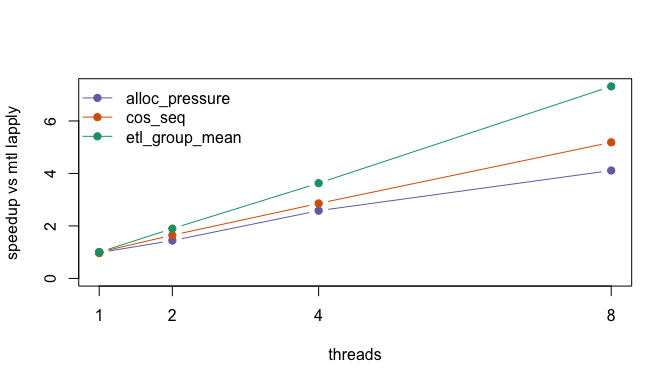
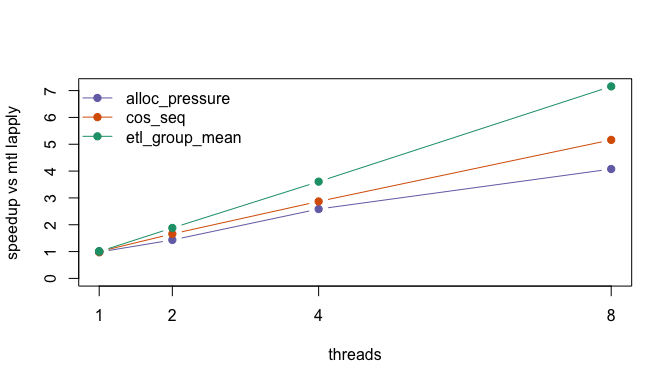
mtl: reduce serial overhead via hidden threading-active mirror

diff --git a/src/main/memory.c b/src/main/memory.c
@@ -160,10 +160,19 @@ attribute_hidden int R_gc_running(void) { return R_in_gc; }
 #ifdef HAVE_PTHREAD
 # include <stdatomic.h>
 
-/* Global: enabled only while mtlapply() workers are evaluating. */
-/* Must have default visibility: internal bundled shared objects include
- * Defn.h and reference this flag via the R_Interpreter macro. */
+/* Global: enabled only while mtlapply() workers are evaluating.
+ *
+ * Keep a visible symbol for internal shared objects compiled with
+ * -undefined dynamic_lookup, and a hidden mirror for the main executable
+ * to avoid semantic-interposition overhead on the hot serial path. */
 attribute_visible int R_mtl_threading_active = 0;
+attribute_hidden int R_mtl_threading_active_hidden = 0;
+
+attribute_hidden void R_mtl_set_threading_active(int active)
+{
+    R_mtl_threading_active = active;
+    R_mtl_threading_active_hidden = active;
+}
 
 static pthread_mutex_t R_heap_excl_mutex = PTHREAD_MUTEX_INITIALIZER;
 static pthread_cond_t  R_heap_excl_cond  = PTHREAD_COND_INITIALIZER;
@@ -177,7 +186,7 @@ static R_THREAD_LOCAL int R_heap_inflight_suspended = 0;
 
 static R_INLINE void heap_alloc_suspend(void)
 {
-    if (__builtin_expect(!R_mtl_threading_active, 1))
+    if (__builtin_expect(!R_MTL_THREADING_ACTIVE, 1))
 	return;
     /* Worker heaps are private: they do not participate in main-heap GC sync.
        Workers only switch to the main heap while holding the heap lock, so
@@ -199,7 +208,7 @@ static R_INLINE void heap_alloc_suspend(void)
 
 static R_INLINE void heap_alloc_resume(void)
 {
-    if (__builtin_expect(!R_mtl_threading_active, 1))
+    if (__builtin_expect(!R_MTL_THREADING_ACTIVE, 1))
 	return;
     /* See heap_alloc_suspend(). */
     if (R_Interpreter != NULL && R_Interpreter->isMTLWorker)
@@ -212,7 +221,7 @@ static R_INLINE void heap_alloc_resume(void)
 
 static R_INLINE void heap_alloc_enter(void)
 {
-    if (__builtin_expect(!R_mtl_threading_active, 1))
+    if (__builtin_expect(!R_MTL_THREADING_ACTIVE, 1))
 	return;
     /* See heap_alloc_suspend(). */
     if (R_Interpreter != NULL && R_Interpreter->isMTLWorker)
@@ -253,7 +262,7 @@ static R_INLINE void heap_alloc_enter(void)
 
 static R_INLINE void heap_alloc_exit(void)
 {
-    if (__builtin_expect(!R_mtl_threading_active, 1))
+    if (__builtin_expect(!R_MTL_THREADING_ACTIVE, 1))
 	return;
     /* See heap_alloc_suspend(). */
     if (R_Interpreter != NULL && R_Interpreter->isMTLWorker)
@@ -283,7 +292,7 @@ static R_INLINE void heap_alloc_exit(void)
 
 attribute_hidden void R_mtl_heap_lock(void)
 {
-    if (!R_mtl_threading_active)
+    if (!R_MTL_THREADING_ACTIVE)
 	return;
     if (R_heap_excl_depth++ > 0)
 	return;
@@ -301,7 +310,7 @@ attribute_hidden void R_mtl_heap_lock(void)
 
 attribute_hidden void R_mtl_heap_unlock(void)
 {
-    if (!R_mtl_threading_active)
+    if (!R_MTL_THREADING_ACTIVE)
 	return;
     if (--R_heap_excl_depth > 0)
 	return;
@@ -314,7 +323,7 @@ attribute_hidden void R_mtl_heap_unlock(void)
 
 attribute_hidden void R_mtl_heap_unlock_all(void)
 {
-    if (!R_mtl_threading_active)
+    if (!R_MTL_THREADING_ACTIVE)
 	return;
     /* Drop allocator inflight accounting if we are unwinding mid-allocation. */
     if (R_heap_inflight_held) {
@@ -1303,14 +1312,14 @@ static void mtl_worker_gc(R_size_t size_needed);
 #ifdef HAVE_PTHREAD
 static R_INLINE SEXP mtl_genheap_free_load(int c)
 {
-    if (__builtin_expect(!R_mtl_threading_active || R_HEAP->isWorker, 1))
+    if (__builtin_expect(!R_MTL_THREADING_ACTIVE || R_HEAP->isWorker, 1))
 	return R_GenHeap[c].Free;
     return __atomic_load_n(&R_GenHeap[c].Free, __ATOMIC_ACQUIRE);
 }
 
 static R_INLINE void mtl_genheap_free_store(int c, SEXP v)
 {
-    if (__builtin_expect(!R_mtl_threading_active || R_HEAP->isWorker, 1))
+    if (__builtin_expect(!R_MTL_THREADING_ACTIVE || R_HEAP->isWorker, 1))
 	R_GenHeap[c].Free = v;
     else
 	__atomic_store_n(&R_GenHeap[c].Free, v, __ATOMIC_RELEASE);
@@ -1321,14 +1330,14 @@ static R_INLINE void mtl_genheap_free_store(int c, SEXP v)
 
 static R_INLINE R_size_t mtl_r_size_t_load(R_size_t *p)
 {
-    if (__builtin_expect(!R_mtl_threading_active || R_HEAP->isWorker, 1))
+    if (__builtin_expect(!R_MTL_THREADING_ACTIVE || R_HEAP->isWorker, 1))
 	return *p;
     return __atomic_load_n(p, __ATOMIC_RELAXED);
 }
 
 static R_INLINE void mtl_r_size_t_store(R_size_t *p, R_size_t v)
 {
-    if (__builtin_expect(!R_mtl_threading_active || R_HEAP->isWorker, 1))
+    if (__builtin_expect(!R_MTL_THREADING_ACTIVE || R_HEAP->isWorker, 1))
 	*p = v;
     else
 	__atomic_store_n(p, v, __ATOMIC_RELAXED);
@@ -1336,7 +1345,7 @@ static R_INLINE void mtl_r_size_t_store(R_size_t *p, R_size_t v)
 
 static R_INLINE void mtl_r_size_t_add(R_size_t *p, R_size_t n)
 {
-    if (__builtin_expect(!R_mtl_threading_active || R_HEAP->isWorker, 1))
+    if (__builtin_expect(!R_MTL_THREADING_ACTIVE || R_HEAP->isWorker, 1))
 	*p += n;
     else
 	__atomic_fetch_add(p, n, __ATOMIC_RELAXED);
@@ -1380,7 +1389,7 @@ static R_INLINE R_size_t VHEAP_FREE_MTL(void)
 static R_INLINE SEXP try_get_free_node(int node_class)
 {
 #ifdef HAVE_PTHREAD
-    if (!R_mtl_threading_active || R_HEAP->isWorker) {
+    if (!R_MTL_THREADING_ACTIVE || R_HEAP->isWorker) {
 	/* Single-threaded heap fast path: avoid CAS loops and atomic RMW ops. */
 	SEXP s = R_GenHeap[node_class].Free;
 	if (s == R_GenHeap[node_class].New)
@@ -1444,15 +1453,15 @@ static R_INLINE void mtl_gc(R_size_t size_needed)
 		    R_VSize_heap = target;
 	    }
 	}
-    } else {
-	if (R_mtl_threading_active) {
-	    R_mtl_heap_lock();
-	    R_gc_internal(size_needed);
-	    R_mtl_heap_unlock();
 	} else {
-	    R_gc_internal(size_needed);
+	    if (R_MTL_THREADING_ACTIVE) {
+		R_mtl_heap_lock();
+		R_gc_internal(size_needed);
+		R_mtl_heap_unlock();
+	    } else {
+		R_gc_internal(size_needed);
+	    }
 	}
-    }
     heap_alloc_resume();
 }
 
@@ -1463,7 +1472,7 @@ static R_INLINE void mtl_get_new_page(int node_class)
 	if (CLASS_NEED_NEW_PAGE(node_class))
 	    GetNewPage(node_class);
     } else {
-	if (R_mtl_threading_active) {
+	if (R_MTL_THREADING_ACTIVE) {
 	    R_mtl_heap_lock();
 	    if (CLASS_NEED_NEW_PAGE(node_class))
 		GetNewPage(node_class);
@@ -4036,7 +4045,7 @@ SEXP allocVector3(SEXPTYPE type, R_xlen_t length, R_allocator_t *allocator)
 				R_GenHeap[node_class].AllocCount++;
 				NODES_IN_USE_ADD(1);
 				SNAP_NODE(s, R_GenHeap[node_class].New);
-			    } else if (R_mtl_threading_active) {
+			    } else if (R_MTL_THREADING_ACTIVE) {
 				heap_alloc_suspend();
 				R_mtl_heap_lock();
 				if (!allocator) LARGE_VALLOC_ADD(size);

diff --git a/src/include/Defn.h b/src/include/Defn.h
@@ -1650,8 +1650,21 @@ attribute_hidden void R_mtl_heap_unlock_all(void);
 
    NOTE: internal bundled shared objects (e.g. tools.so) include Defn.h and are
    compiled with -fvisibility=hidden. Mark this symbol visible so those bundles
-   can reference it via -undefined dynamic_lookup. */
+   can reference it via -undefined dynamic_lookup.
+
+   Serial performance: on platforms with semantic interposition, a default-
+   visibility global can inhibit optimization and cost extra indirections.
+   Use a hidden mirror for code compiled into the main executable. */
 attribute_visible extern int R_mtl_threading_active;
+#ifdef __MAIN__
+attribute_hidden extern int R_mtl_threading_active_hidden;
+#define R_MTL_THREADING_ACTIVE (R_mtl_threading_active_hidden)
+#else
+#define R_MTL_THREADING_ACTIVE (R_mtl_threading_active)
+#endif
+
+/* Set threading-active flags (visible + hidden mirror). */
+attribute_hidden void R_mtl_set_threading_active(int active);
 
 attribute_hidden void R_mtl_global_lock(void);
 attribute_hidden void R_mtl_global_unlock(void);
@@ -1699,8 +1712,14 @@ static R_INLINE R_InterpreterState *R_mtl_interpreter_ptr(void)
 {
     /* Keep serial performance close to stock: avoid TLS access unless a
        parallel region is active. */
-    if (__builtin_expect(!R_mtl_threading_active, 1))
+    if (__builtin_expect(!R_MTL_THREADING_ACTIVE, 1)) {
+#ifdef __MAIN__
+	/* Avoid an extra default-visibility global load on the hot serial path. */
+	return &R_Interpreter0;
+#else
 	return R_InterpreterMain;
+#endif
+    }
     return R_InterpreterTLS ? R_InterpreterTLS : R_InterpreterMain;
 }
 

diff --git a/src/main/apply.c b/src/main/apply.c
@@ -627,7 +627,7 @@ attribute_hidden void R_mtlpool_shutdown(void)
     }
 
 	    /* Enable threaded allocator/GC fast paths only while workers may run. */
-	    R_mtl_threading_active = 1;
+	    R_mtl_set_threading_active(1);
 
 	    mtl_pool.job = d->job;
 	    mtl_pool.job_nthreads = d->n_bg_threads;
@@ -649,7 +649,7 @@ attribute_hidden void R_mtlpool_shutdown(void)
 	    mtl_pool.job = NULL;
 	    pthread_cond_broadcast(&mtl_pool.cv);
 
-	    R_mtl_threading_active = 0;
+	    R_mtl_set_threading_active(0);
 
 	    pthread_mutex_unlock(&mtl_pool.mu);
 	    d->mu_locked = 0;
@@ -666,7 +666,7 @@ attribute_hidden void R_mtlpool_shutdown(void)
 
 	    /* Always restore serial mode. On unwind, also signal workers to stop
 	       consuming indices from a stack-allocated job structure. */
-	    R_mtl_threading_active = 0;
+	    R_mtl_set_threading_active(0);
 	    if (jump && d->job)
 		atomic_store_explicit(&d->job->error, 1, memory_order_relaxed);
 	    R_Interpreter->workerGlobalEnv = d->saved_worker_env;

diff --git a/README.md b/README.md
@@ -117,36 +117,36 @@ them:
 
 | workload | build | label | median_seconds | speedup_vs_rdevel_lapply | speedup_vs_sys_lapply | speedup_vs_mtl_lapply | efficiency_vs_mtl_lapply |
 |:---|:---|:---|---:|---:|---:|---:|---:|
-| alloc_pressure | mtl | lapply | 0.111 | 0.919 | 0.856 | 1.000 | NA |
-| alloc_pressure | mtl | mtlapply(1) | 0.113 | 0.903 | 0.841 | 0.982 | 0.982 |
-| alloc_pressure | mtl | mtlapply(2) | 0.077 | 1.325 | 1.234 | 1.442 | 0.721 |
-| alloc_pressure | mtl | mtlapply(4) | 0.043 | 2.372 | 2.209 | 2.581 | 0.645 |
-| alloc_pressure | mtl | mtlapply(8) | 0.027 | 3.778 | 3.519 | 4.111 | 0.514 |
-| alloc_pressure | rdevel | lapply | 0.102 | 1.000 | 0.931 | 1.088 | NA |
-| alloc_pressure | system | lapply | 0.095 | 1.074 | 1.000 | 1.168 | NA |
-| cos_seq | mtl | lapply | 0.420 | 1.048 | 0.950 | 1.000 | NA |
-| cos_seq | mtl | mtlapply(1) | 0.435 | 1.011 | 0.917 | 0.966 | 0.966 |
-| cos_seq | mtl | mtlapply(2) | 0.255 | 1.725 | 1.565 | 1.647 | 0.824 |
-| cos_seq | mtl | mtlapply(4) | 0.147 | 2.993 | 2.714 | 2.857 | 0.714 |
-| cos_seq | mtl | mtlapply(8) | 0.081 | 5.432 | 4.926 | 5.185 | 0.648 |
-| cos_seq | rdevel | lapply | 0.440 | 1.000 | 0.907 | 0.955 | NA |
-| cos_seq | system | lapply | 0.399 | 1.103 | 1.000 | 1.053 | NA |
-| etl_group_mean | mtl | lapply | 0.922 | 1.065 | 0.905 | 1.000 | NA |
-| etl_group_mean | mtl | mtlapply(1) | 0.918 | 1.070 | 0.908 | 1.004 | 1.004 |
-| etl_group_mean | mtl | mtlapply(2) | 0.486 | 2.021 | 1.716 | 1.897 | 0.949 |
-| etl_group_mean | mtl | mtlapply(4) | 0.254 | 3.866 | 3.283 | 3.630 | 0.907 |
-| etl_group_mean | mtl | mtlapply(8) | 0.126 | 7.794 | 6.619 | 7.317 | 0.915 |
-| etl_group_mean | rdevel | lapply | 0.982 | 1.000 | 0.849 | 0.939 | NA |
-| etl_group_mean | system | lapply | 0.834 | 1.177 | 1.000 | 1.106 | NA |
+| alloc_pressure | mtl | lapply | 0.106 | 0.934 | 0.868 | 1.000 | NA |
+| alloc_pressure | mtl | mtlapply(1) | 0.108 | 0.917 | 0.852 | 0.981 | 0.981 |
+| alloc_pressure | mtl | mtlapply(2) | 0.074 | 1.338 | 1.243 | 1.432 | 0.716 |
+| alloc_pressure | mtl | mtlapply(4) | 0.041 | 2.415 | 2.244 | 2.585 | 0.646 |
+| alloc_pressure | mtl | mtlapply(8) | 0.026 | 3.808 | 3.538 | 4.077 | 0.510 |
+| alloc_pressure | rdevel | lapply | 0.099 | 1.000 | 0.929 | 1.071 | NA |
+| alloc_pressure | system | lapply | 0.092 | 1.076 | 1.000 | 1.152 | NA |
+| cos_seq | mtl | lapply | 0.413 | 1.034 | 0.942 | 1.000 | NA |
+| cos_seq | mtl | mtlapply(1) | 0.424 | 1.007 | 0.917 | 0.974 | 0.974 |
+| cos_seq | mtl | mtlapply(2) | 0.249 | 1.715 | 1.562 | 1.659 | 0.829 |
+| cos_seq | mtl | mtlapply(4) | 0.144 | 2.965 | 2.701 | 2.868 | 0.717 |
+| cos_seq | mtl | mtlapply(8) | 0.080 | 5.337 | 4.862 | 5.162 | 0.645 |
+| cos_seq | rdevel | lapply | 0.427 | 1.000 | 0.911 | 0.967 | NA |
+| cos_seq | system | lapply | 0.389 | 1.098 | 1.000 | 1.062 | NA |
+| etl_group_mean | mtl | lapply | 0.916 | 1.058 | 0.912 | 1.000 | NA |
+| etl_group_mean | mtl | mtlapply(1) | 0.902 | 1.074 | 0.926 | 1.016 | 1.016 |
+| etl_group_mean | mtl | mtlapply(2) | 0.487 | 1.990 | 1.715 | 1.881 | 0.940 |
+| etl_group_mean | mtl | mtlapply(4) | 0.254 | 3.815 | 3.287 | 3.606 | 0.902 |
+| etl_group_mean | mtl | mtlapply(8) | 0.128 | 7.570 | 6.523 | 7.156 | 0.895 |
+| etl_group_mean | rdevel | lapply | 0.969 | 1.000 | 0.862 | 0.945 | NA |
+| etl_group_mean | system | lapply | 0.835 | 1.160 | 1.000 | 1.097 | NA |
 
     ## 
     ## Single-thread overhead check (per workload):
 
 | workload       | ratio_mtl_vs_sys | ratio_mtl_vs_rdevel |
 |:---------------|-----------------:|--------------------:|
-| alloc_pressure |            1.168 |               1.088 |
-| cos_seq        |            1.053 |               0.955 |
-| etl_group_mean |            1.106 |               0.939 |
+| alloc_pressure |            1.152 |               1.071 |
+| cos_seq        |            1.062 |               0.967 |
+| etl_group_mean |            1.097 |               0.945 |
 
     ## 
     ## Scaling (speedup vs `mtl` lapply):
@@ -159,11 +159,11 @@ them:
     ## # A data frame: 5 × 13
     ##   expression    min median `itr/sec` mem_alloc `gc/sec` n_itr  n_gc total_time
     ##   <bch:expr>  <dbl>  <dbl>     <dbl> <bch:byt>    <dbl> <int> <dbl>      <dbl>
-    ## 1 lapply      0.909  0.935      1.07        NA     57.7     3   161      2.79 
-    ## 2 mtlapply(1) 0.914  0.923      1.08        NA     42.2     3   117      2.77 
-    ## 3 mtlapply(2) 0.480  0.481      2.07        NA     40.1     3    58      1.45 
-    ## 4 mtlapply(4) 0.253  0.254      3.93        NA     44.5     3    34      0.763
-    ## 5 mtlapply(8) 0.128  0.128      7.77        NA     36.2     3    14      0.386
+    ## 1 lapply      0.900  0.917      1.09        NA     61.8     3   170      2.75 
+    ## 2 mtlapply(1) 0.905  0.911      1.10        NA     42.4     3   116      2.74 
+    ## 3 mtlapply(2) 0.481  0.484      2.07        NA     37.9     3    55      1.45 
+    ## 4 mtlapply(4) 0.254  0.254      3.93        NA     43.2     3    33      0.764
+    ## 5 mtlapply(8) 0.128  0.129      7.74        NA     36.1     3    14      0.387
     ## # ℹ 4 more variables: result <list>, memory <list>, time <list>, gc <list>
 
 ![](bench/figures/readme-results-2.png)<!-- -->
